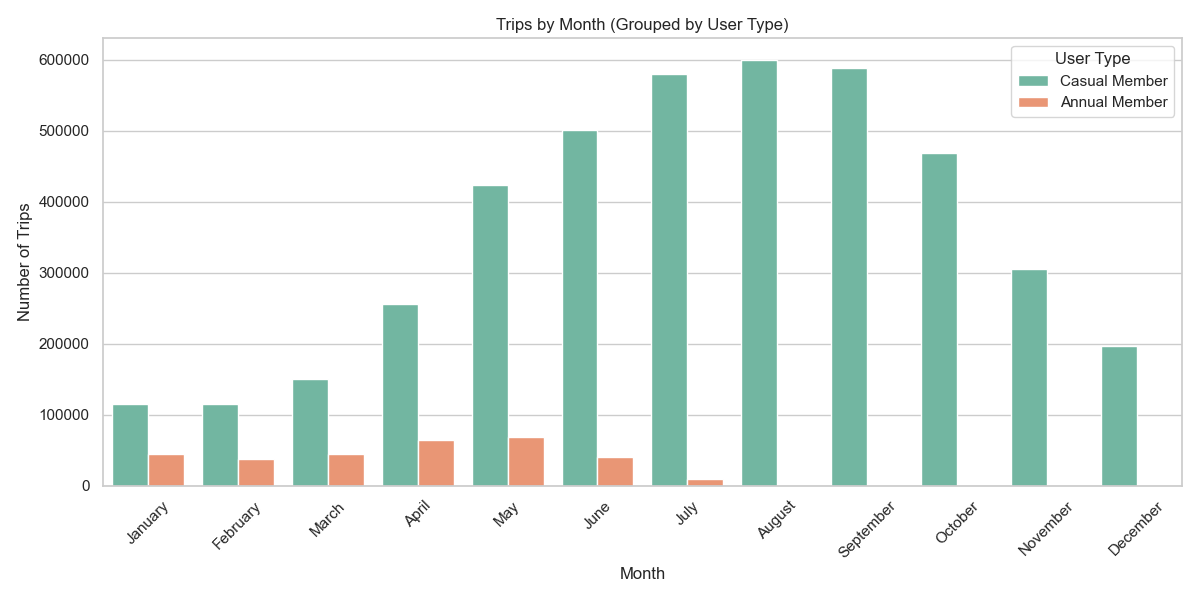
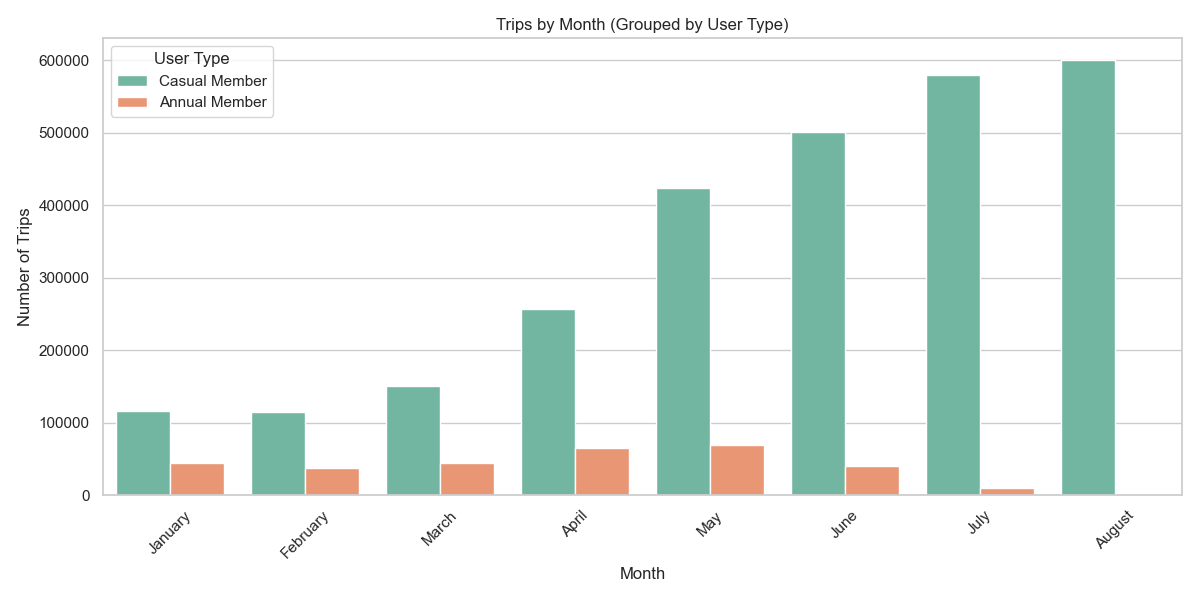
updated EDA, README and trip_duration files

diff --git a/scripts/EDA.py b/scripts/EDA.py
@@ -38,94 +38,98 @@ df["month"] = df["start_time"].dt.month_name()
 
 print("Null start time:", df["start_time"].isna().sum())
 
-sns.histplot(df["trip_duration"] / 60, bins=100, kde=True)
-plt.title("Trip Duration Distribution (minutes)")
-plt.xlabel("Duration (minutes)")
-plt.ylabel("Number of Trips")
-plt.xlim(0, 60)
-plt.tight_layout()
-plt.savefig("visuals/trip_duration_dist.png")
-plt.clf()
-
-sns.countplot(x="hour", data=df, order=sorted(df["hour"].dropna().unique()))
-plt.title("Trips by Hour of Day")
-plt.xlabel("Hour")
-plt.ylabel("Number of Trips")
-plt.tight_layout
-plt.savefig("visuals/trips_by_hour.png")
-plt.clf()
-
 day_order = ["Monday", "Tuesday", "Wednesday", "Thursday", "Friday", "Saturday", "Sunday"]
-sns.countplot(x="day_of_week", data=df, order=day_order)
-plt.title("Trips by Day of Week")
-plt.xlabel("Day")
-plt.ylabel("Number of Trips")
-plt.tight_layout()
-plt.savefig("visuals/trips_by_day.png")
-plt.clf()
-
-sns.countplot(x="user_type", data=df)
-plt.title("Trips by User Type")
-plt.tight_layout()
-plt.savefig("visuals/user_type_breakdown.png")
-plt.clf()
-
-top_stations = df["start_station_name"].value_counts().nlargest(10)
-sns.barplot(y=top_stations.index, x=top_stations.values)
-plt.title("Top 10 Start Stations")
-plt.xlabel("Number of Trips")
-plt.tight_layout()
-plt.savefig("visuals/top_start_stations.png")
-plt.clf()
-
 month_order = ["January", "February", "March", "April", "May", "June", "July", "August", "September", "October", "November", "December"]
-sns.countplot(x="month", data=df, order=month_order)
-plt.title("Trips by Month")
-plt.xlabel("Month")
-plt.ylabel("Number of Trips")
-plt.tight_layout()
-plt.savefig("visuals/trips_by_month.png")
-plt.clf()
 
-df["route"] = df["start_station_name"] + " -> " + df["end_station_name"]
-top_routes = df["route"].value_counts().head(10)
+# sns.histplot(df["trip_duration"] / 60, bins=100, kde=True)
+# plt.title("Trip Duration Distribution (minutes)")
+# plt.xlabel("Duration (minutes)")
+# plt.ylabel("Number of Trips")
+# plt.xlim(0, 60)
+# plt.tight_layout()
+# plt.savefig("visuals/trip_duration_dist.png")
+# plt.clf()
+#
+# sns.countplot(x="hour", data=df, order=sorted(df["hour"].dropna().unique()))
+# plt.title("Trips by Hour of Day")
+# plt.xlabel("Hour")
+# plt.ylabel("Number of Trips")
+# plt.tight_layout
+# plt.savefig("visuals/trips_by_hour.png")
+# plt.clf()
+#
+# sns.countplot(x="day_of_week", data=df, order=day_order)
+# plt.title("Trips by Day of Week")
+# plt.xlabel("Day")
+# plt.ylabel("Number of Trips")
+# plt.tight_layout()
+# plt.savefig("visuals/trips_by_day.png")
+# plt.clf()
+#
+# sns.countplot(x="user_type", data=df)
+# plt.title("Trips by User Type")
+# plt.tight_layout()
+# plt.savefig("visuals/user_type_breakdown.png")
+# plt.clf()
+#
+# top_stations = df["start_station_name"].value_counts().nlargest(10)
+# sns.barplot(y=top_stations.index, x=top_stations.values)
+# plt.title("Top 10 Start Stations")
+# plt.xlabel("Number of Trips")
+# plt.tight_layout()
+# plt.savefig("visuals/top_start_stations.png")
+# plt.clf()
+
+# sns.countplot(x="month", data=df, order=month_order)
+# plt.title("Trips by Month")
+# plt.xlabel("Month")
+# plt.ylabel("Number of Trips")
+# plt.tight_layout()
+# plt.savefig("visuals/trips_by_month.png")
+# plt.clf()
+#
+# df["route"] = df["start_station_name"] + " -> " + df["end_station_name"]
+# top_routes = df["route"].value_counts().head(10)
+# plt.figure(figsize=(12, 6))
+# sns.barplot(x=top_routes.values,
+#             y=top_routes.index,
+#             hue=top_routes.index,
+#             palette="viridis",
+#             dodge=False,
+#             legend=False)
+# plt.title("Top 10 Most Frequent Bike Routes")
+# plt.xlabel("Number of Trips")
+# plt.ylabel("Route")
+# plt.tight_layout()
+# plt.savefig("visuals/top_10_routes.png")
+# plt.clf()
+#
+# plt.figure(figsize=(10, 6))
+# sns.countplot(
+#     data=df,
+#     x="day_of_week",
+#     hue="user_type",
+#     order=day_order,
+#     palette="Set2"
+# )
+# plt.title("Trips by Day of the Week (Grouped by User Type)")
+# plt.xlabel("Day of Week")
+# plt.ylabel("Number of Trips")
+# plt.legend(title="User Type")
+# plt.tight_layout()
+# plt.savefig("visuals/trips_by_day_user_type.png")
+# plt.clf()
+
+months_to_keep = ["January", "February", "March", "April", "May", "June", "July", "August"]
+filtered_df = df[df["month"].isin(months_to_keep)]
+
 plt.figure(figsize=(12, 6))
-sns.barplot(x=top_routes.values,
-            y=top_routes.index,
-            hue=top_routes.index,
-            palette="viridis",
-            dodge=False,
-            legend=False)
-plt.title("Top 10 Most Frequent Bike Routes")
-plt.xlabel("Number of Trips")
-plt.ylabel("Route")
-plt.tight_layout()
-plt.savefig("visuals/top_10_routes.png")
-plt.clf()
-
-plt.figure(figsize=(10, 6))
 sns.countplot(
-    data=df,
-    x="day_of_week",
-    hue="user_type",
-    order=day_order,
-    palette="Set2"
-)
-plt.title("Trips by Day of the Week (Grouped by User Type)")
-plt.xlabel("Day of Week")
-plt.ylabel("Number of Trips")
-plt.legend(title="User Type")
-plt.tight_layout()
-plt.savefig("visuals/trips_by_day_user_type.png")
-plt.clf()
-
-plt.figure(figsize=(12, 6))
-sns.countplot(
-    data=df,
+    data=filtered_df,
     x="month",
     hue="user_type",
-    order=month_order,
-    palette="Set2"  # Optional: any color palette
+    order=months_to_keep,
+    palette="Set2"
 )
 
 plt.title("Trips by Month (Grouped by User Type)")
@@ -137,20 +141,20 @@ plt.tight_layout()
 plt.savefig("visuals/trips_by_month_user_type.png")
 plt.clf()
 
-plt.figure(figsize=(12, 6))
-sns.countplot(
-    data=df,
-    x="hour",
-    hue="user_type",
-    palette="Set2"
-)
-
-plt.title("Trips by Hour of Day (Grouped by User Type)")
-plt.xlabel("Hour (0–23)")
-plt.ylabel("Number of Trips")
-plt.legend(title="User Type")
-plt.tight_layout()
-plt.savefig("visuals/trips_by_hour_user_type.png")
-plt.clf()
+# plt.figure(figsize=(12, 6))
+# sns.countplot(
+#     data=df,
+#     x="hour",
+#     hue="user_type",
+#     palette="Set2"
+# )
+#
+# plt.title("Trips by Hour of Day (Grouped by User Type)")
+# plt.xlabel("Hour (0–23)")
+# plt.ylabel("Number of Trips")
+# plt.legend(title="User Type")
+# plt.tight_layout()
+# plt.savefig("visuals/trips_by_hour_user_type.png")
+# plt.clf()
 
 print("EDA plots are saved to visuals folder")

diff --git a/scripts/trip_duration_visuals.py b/scripts/trip_duration_visuals.py
@@ -1,0 +1,87 @@
+import pandas as pd
+import matplotlib.pyplot as plt
+import seaborn as sns
+
+# Setup for prettier plot
+sns.set(style="whitegrid")
+plt.rcParams["figure.figsize"] = (10, 6)
+
+# Load the cleaned combined CSV
+DATA_PATH = "data/processed/bikeshare_2023_combined.csv"
+df = pd.read_csv(DATA_PATH)
+
+print(f"Original shape: {df.shape}")
+df.dropna(inplace=True)
+print(f"New shape after dropping NaNs: {df.shape}")
+
+# Standardize column names
+df.columns = (
+    df.columns
+    .str.strip()
+    .str.lower()
+    .str.replace(" ", "_")
+    .str.replace("__", "_")
+)
+
+print(f"Data Loaded: {df.shape[0]:,} rows, {df.shape[1]} columns")
+print("Columns: ", list(df.columns))
+
+# Convert to datatime
+df["start_time"] = pd.to_datetime(df["start_time"], errors="coerce")
+df["end_time"] = pd.to_datetime(df["end_time"], errors="coerce")
+
+# Add time-related features
+df["hour"] = df["start_time"].dt.hour
+df["day_of_week"] = df["start_time"].dt.day_name()
+df["month"] = df["start_time"].dt.month_name()
+
+# trip duration analysis
+
+# Convert trip_duration to minutes
+df["trip_duration_min"] = df["trip_duration"] / 60
+filtered_df = df[df["trip_duration_min"] <= 120]
+
+plt.figure(figsize=(10, 6))
+sns.histplot(filtered_df["trip_duration_min"], bins=60, kde=False, color="skyblue")
+plt.title("Trip Duration Distribution (All Users)")
+plt.xlabel("Trip Duration (minutes)")
+plt.ylabel("Number of Trips")
+plt.tight_layout()
+plt.savefig("visuals/trip_duration_histogram_all.png")
+plt.clf()
+
+plt.figure(figsize=(10, 6))
+sns.kdeplot(data=filtered_df, x="trip_duration_min", hue="user_type", common_norm=False)
+plt.title("Trip Duration KDE by User Type")
+plt.xlabel("Trip Duration (minutes)")
+plt.ylabel("Density")
+plt.tight_layout()
+plt.savefig("visuals/trip_duration_kde_usertype.png")
+plt.clf()
+
+plt.figure(figsize=(8, 6))
+sns.boxplot(data=filtered_df, x="user_type", y="trip_duration_min")
+plt.title("Trip Duration by User Type")
+plt.xlabel("User Type")
+plt.ylabel("Trip Duration (minutes)")
+plt.tight_layout()
+plt.savefig("visuals/trip_duration_boxplot_usertype.png")
+plt.clf()
+
+# Group and aggregate
+avg_duration = (
+    filtered_df.groupby(["day_of_week", "user_type"])["trip_duration_min"]
+    .mean()
+    .reset_index()
+)
+
+plt.figure(figsize=(10, 6))
+sns.barplot(data=avg_duration, x="day_of_week", y="trip_duration_min", hue="user_type", order=day_order)
+plt.title("Average Trip Duration by Day and User Type")
+plt.xlabel("Day of Week")
+plt.ylabel("Avg Trip Duration (minutes)")
+plt.tight_layout()
+plt.savefig("visuals/avg_trip_duration_by_day_user.png")
+plt.clf()
+
+print("Trip duration plots are saved to visuals folder")

diff --git a/README.md b/README.md
@@ -1,4 +1,4 @@
-# 🚲 Bike Share Toronto Ridership Analysis
+# 🚲 Toronto Bike Share Ridership Analysis
 
 This project explores ridership patterns of Toronto's public bike sharing system using open data from the City of Toronto. 
 
@@ -14,3 +14,15 @@ This project explores ridership patterns of Toronto's public bike sharing system
 - `scripts/` — Automation for data fetching and cleaning
 - `visuals/` — Saved figures and charts
 
+## ⚠ Data Limitations
+
+While analyzing the 2023 Bike Share Toronto ridership data, a significant gap was identified:
+
+Annual Member data is missing from August to December 2023.
+During this period, all recorded trips are labeled as “Casual Members”, with no entries for annual users. This appears to be a dataset omission rather than a behavioral trend.
+
+As a result:
+	•	All user behavior analysis comparing Casual vs. Annual Members is limited to January through July 2023.
+	•	Insights beyond July reflect only Casual Member usage and should be interpreted accordingly.
+
+This gap was retained intentionally to preserve dataset integrity and highlight real-world challenges analysts face when working with open data.
